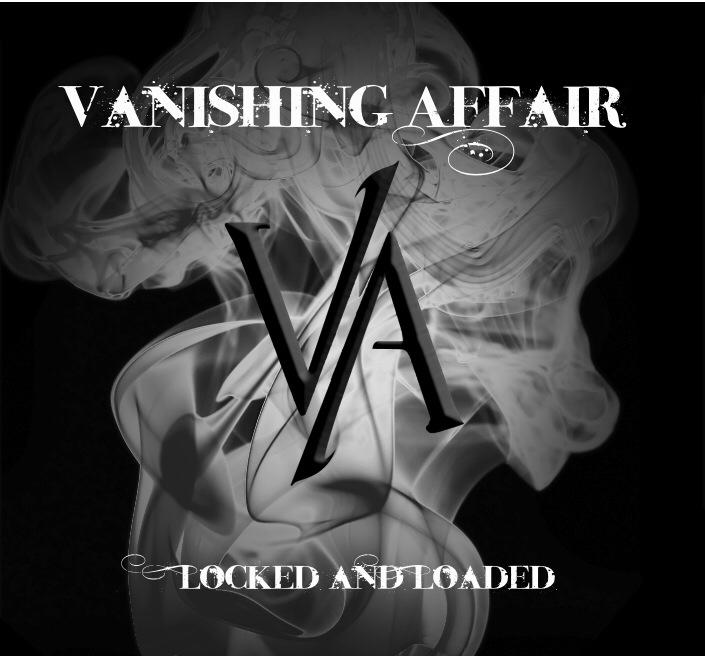
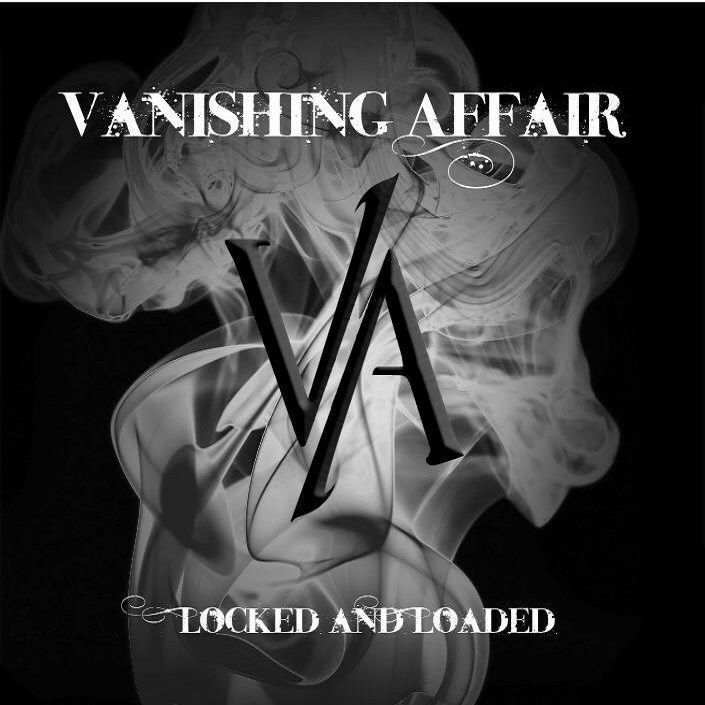
Styling Album Images

Changed region(s): [[0.8113, 0.1829, 0.8426, 0.2134]]

diff --git a/assets/css/style.css b/assets/css/style.css
@@ -215,3 +215,20 @@ body {
   top: 6px;
   width: 25px;
 }
+
+.pageHeadingBig {
+  padding: 20px;
+  text-align: center;
+}
+
+.gridViewItem {
+  display: inline-block;
+  margin-right: 20px;
+  width: 29%;
+  max-width: 200px;
+  min-width: 150px;
+}
+
+.gridViewItem img {
+  width: 100%;
+}
